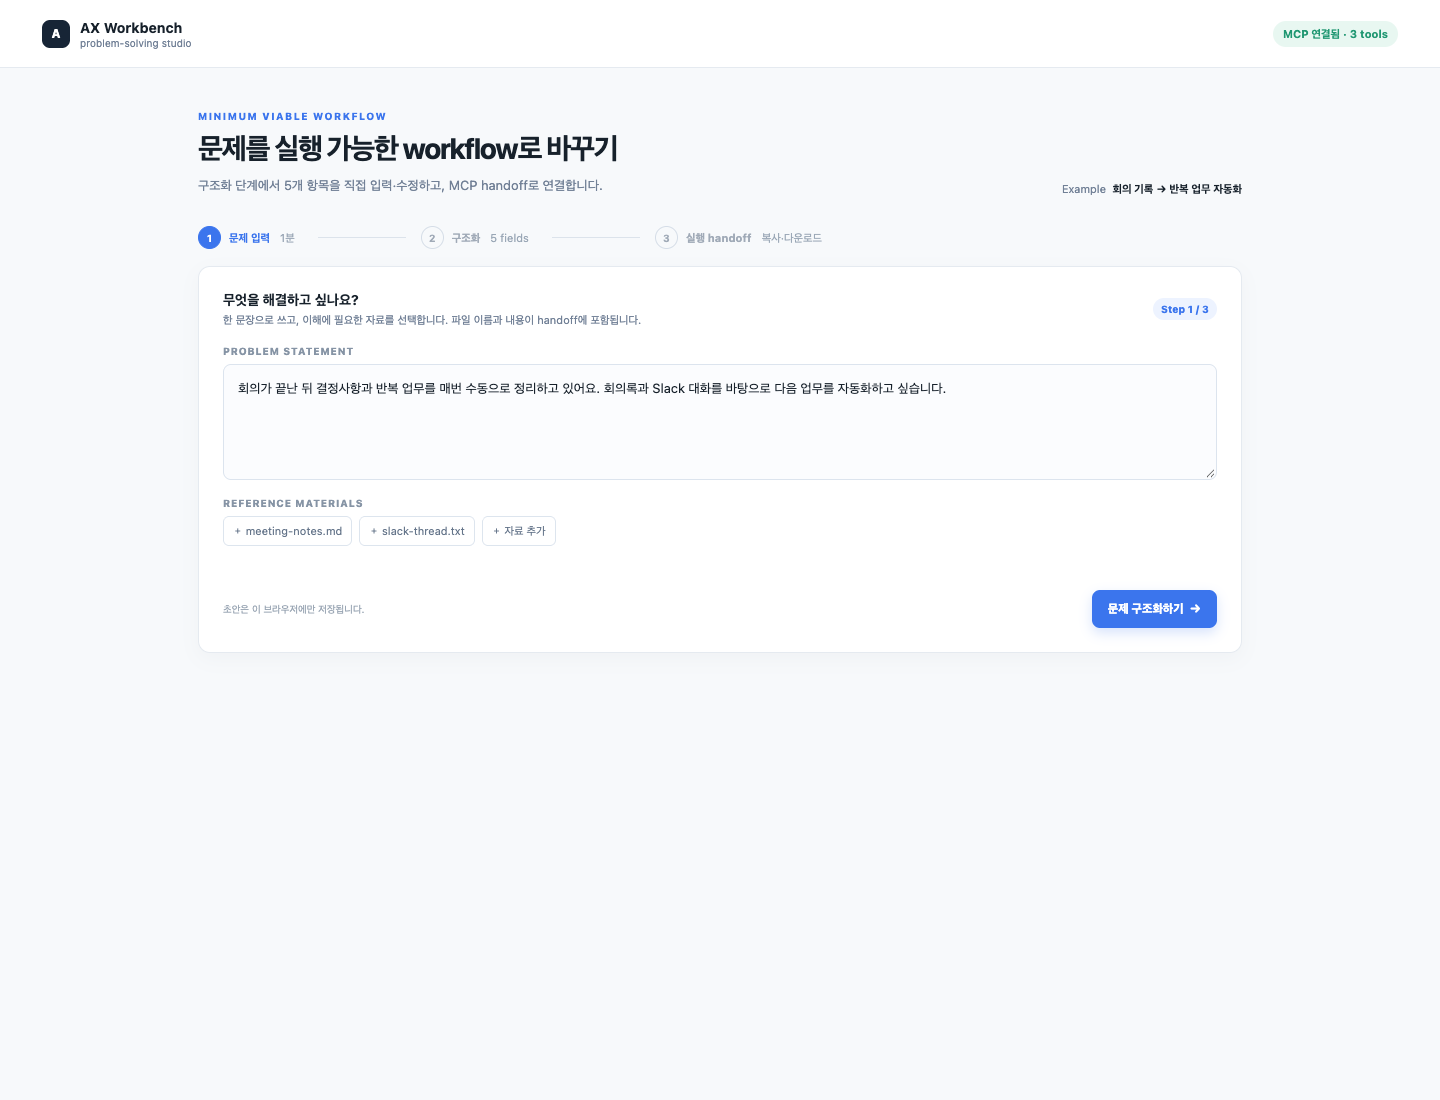
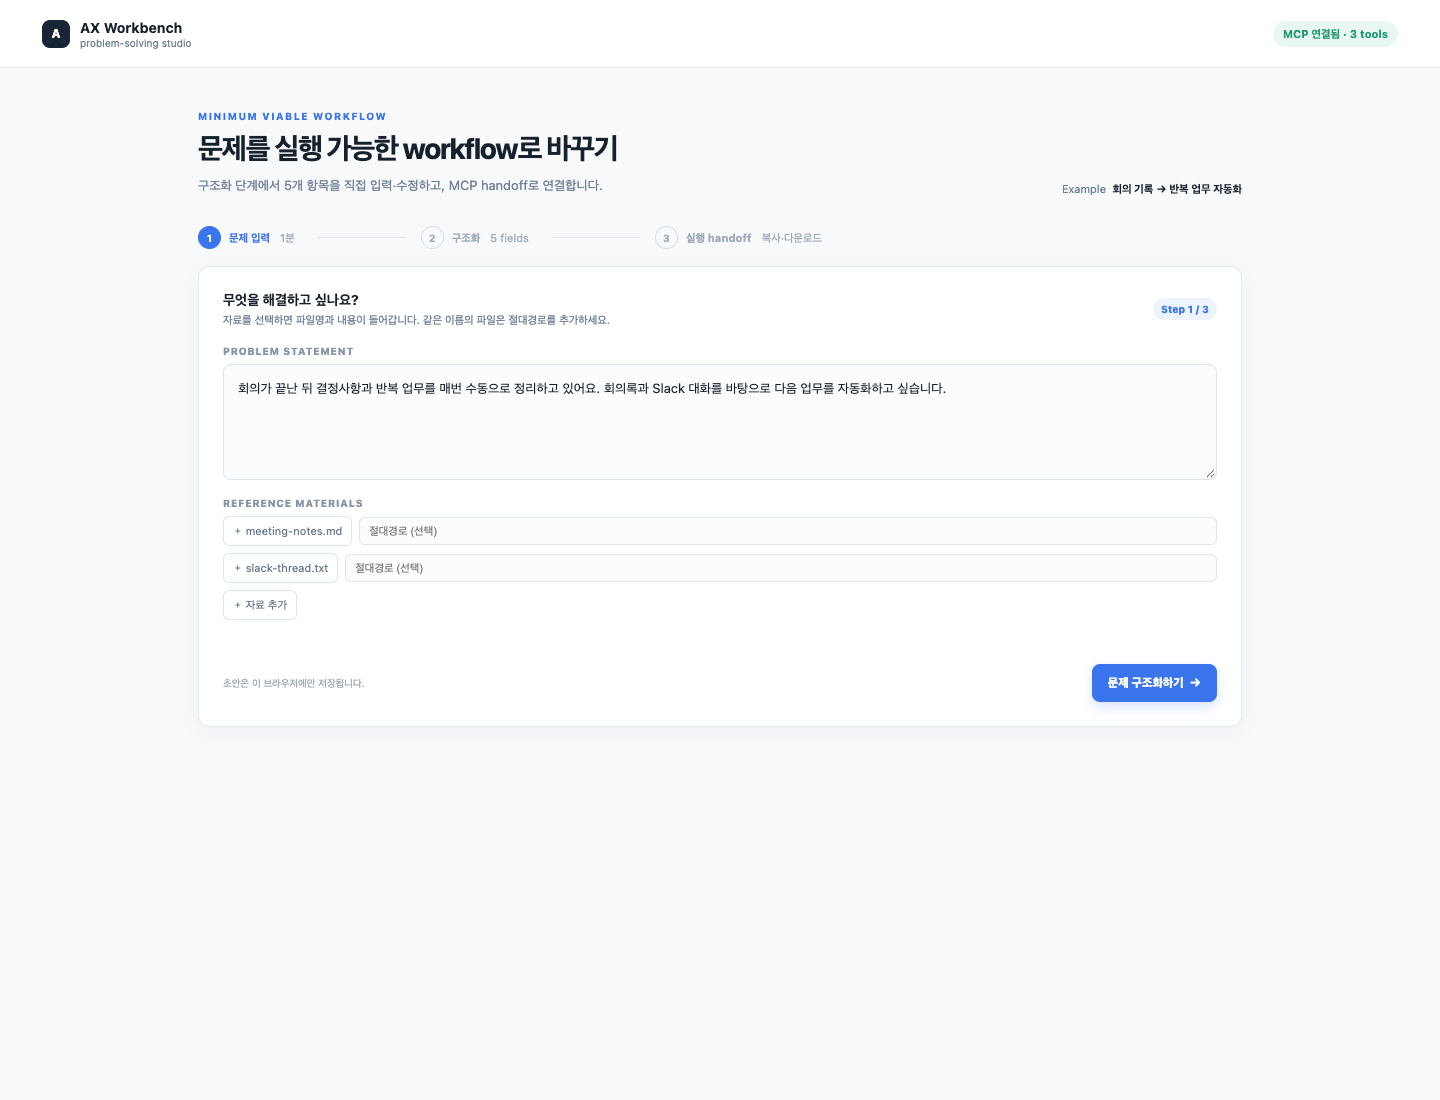
feat: preserve optional reference paths

diff --git a/apps/workbench/demo/mvp.html b/apps/workbench/demo/mvp.html
@@ -54,6 +54,9 @@
     .chips { display: flex; gap: 7px; flex-wrap: wrap; align-items: center; }
     .chip { border: 1px solid #dde5ee; background: #fff; border-radius: 6px; padding: 7px 9px; color: #65758a; font-size: 11px; }
     .chip:hover { border-color: #aebed5; }
+    .reference-item { display: flex; align-items: center; gap: 7px; width: 100%; }
+    .reference-path { flex: 1; min-width: 240px; border: 1px solid #dde5ee; border-radius: 6px; background: #fbfcfe; color: var(--ink); padding: 7px 9px; font-size: 11px; outline: 0; }
+    .reference-path:focus { border-color: var(--blue); box-shadow: 0 0 0 3px rgba(59, 117, 237, .1); }
     .form-footer, .actions { display: flex; justify-content: space-between; align-items: center; gap: 14px; margin-top: 20px; }
     .hint { color: #9aa6b4; font-size: 10px; }
     .error { color: var(--red); font-size: 11px; min-height: 16px; margin-top: 8px; }
@@ -135,11 +138,11 @@
 
     <section class="card input-view" id="inputView">
       <div class="input-card">
-        <div class="card-title"><div><h2>무엇을 해결하고 싶나요?</h2><p>한 문장으로 쓰고, 이해에 필요한 자료를 선택합니다. 파일 이름과 내용이 handoff에 포함됩니다.</p></div><span class="badge blue">Step 1 / 3</span></div>
+        <div class="card-title"><div><h2>무엇을 해결하고 싶나요?</h2><p>자료를 선택하면 파일명과 내용이 들어갑니다. 같은 이름의 파일은 절대경로를 추가하세요.</p></div><span class="badge blue">Step 1 / 3</span></div>
         <label class="label" for="request">Problem statement</label>
         <textarea class="textarea" id="request">회의가 끝난 뒤 결정사항과 반복 업무를 매번 수동으로 정리하고 있어요. 회의록과 Slack 대화를 바탕으로 다음 업무를 자동화하고 싶습니다.</textarea>
         <label class="label" for="fileInput">Reference materials</label>
-        <div class="chips" id="fileList"><button class="chip" type="button" data-remove="meeting-notes.md">＋ meeting-notes.md</button><button class="chip" type="button" data-remove="slack-thread.txt">＋ slack-thread.txt</button><button class="chip" type="button" id="addFile">＋ 자료 추가</button></div>
+        <div class="chips" id="fileList"><button class="chip" type="button" id="addFile">＋ 자료 추가</button></div>
         <input id="fileInput" type="file" multiple hidden>
         <div class="error" id="inputError" role="alert"></div>
         <div class="form-footer"><span class="hint" id="saveHint">초안은 이 브라우저에만 저장됩니다.</span><button class="primary" type="button" id="analyze">문제 구조화하기&nbsp; →</button></div>
@@ -178,7 +181,15 @@
   <script>
     const STORAGE_KEY = "ax-workbench-local-mvp-v2";
     const fieldKeys = ["goal", "constraints", "success_criteria", "anti_goals", "acceptance_rubric"];
-    const state = { request: "", refs: [], contract: {}, approved: false };
+    const state = {
+      request: "",
+      refs: [
+        { name: "meeting-notes.md", content: "" },
+        { name: "slack-thread.txt", content: "" }
+      ],
+      contract: {},
+      approved: false
+    };
     let mcpConnected = false;
     let mcpRequestId = 0;
     let referenceRead = Promise.resolve();
@@ -241,7 +252,11 @@
     function normalizeReference(ref) {
       if (typeof ref === "string") return { name: ref, content: "" };
       if (!ref || typeof ref !== "object") return { name: String(ref ?? "reference"), content: "" };
-      return { name: String(ref.name || "reference"), content: typeof ref.content === "string" ? ref.content : String(ref.content ?? "") };
+      return {
+        name: String(ref.name || "reference"),
+        path: typeof ref.path === "string" ? ref.path : String(ref.path ?? ""),
+        content: typeof ref.content === "string" ? ref.content : String(ref.content ?? "")
+      };
     }
 
     function referenceName(ref) { return normalizeReference(ref).name; }
@@ -255,9 +270,10 @@
       if (!refs.length) return ["- problem statement"];
       return refs.flatMap((ref) => {
         const reference = normalizeReference(ref);
-        if (!reference.content) return [`- ${reference.name}`];
+        const pathLine = reference.path ? [`  Path: ${reference.path}`] : [];
+        if (!reference.content) return [`- ${reference.name}`, ...pathLine];
         const fence = referenceContentFence(reference.content);
-        return [`- ${reference.name}`, "  Content:", `  ${fence}text`, reference.content, `  ${fence}`];
+        return [`- ${reference.name}`, ...pathLine, "  Content:", `  ${fence}text`, reference.content, `  ${fence}`];
       });
     }
 
@@ -274,14 +290,20 @@
     }
 
     function collectRefs() {
-      return $$('[data-remove]').map((item) => state.refs.find((ref) => referenceName(ref) === item.dataset.remove) || { name: item.dataset.remove, content: "" });
+      const rows = $$(".reference-item");
+      if (rows.length) return rows.map((row) => state.refs[Number(row.dataset.refIndex)] || { name: row.querySelector("[data-remove]").dataset.remove, content: "" });
+      return $$('[data-remove]').map((item) => ({ name: item.dataset.remove, content: "" }));
     }
 
     function renderRefList() {
       const list = $("#fileList"); list.replaceChildren();
-      state.refs.forEach((ref) => {
-        const name = referenceName(ref);
-        const button = document.createElement("button"); button.className = "chip"; button.type = "button"; button.dataset.remove = name; button.textContent = `＋ ${name}`; list.appendChild(button);
+      state.refs.forEach((ref, index) => {
+        const reference = normalizeReference(ref);
+        const row = document.createElement("div"); row.className = "reference-item"; row.dataset.refIndex = index;
+        const button = document.createElement("button"); button.className = "chip"; button.type = "button"; button.dataset.remove = reference.name; button.dataset.refIndex = index; button.textContent = `＋ ${reference.name}`;
+        const path = document.createElement("input"); path.className = "reference-path"; path.type = "text"; path.placeholder = "절대경로 (선택)"; path.value = reference.path; path.setAttribute("aria-label", `${reference.name} 절대경로`);
+        path.addEventListener("input", (event) => { state.refs[index] = { ...normalizeReference(state.refs[index]), path: event.target.value }; saveDraft(); });
+        row.append(button, path); list.appendChild(row);
       });
       const add = document.createElement("button"); add.className = "chip"; add.type = "button"; add.id = "addFile"; add.textContent = "＋ 자료 추가"; add.addEventListener("click", () => $("#fileInput").click()); list.appendChild(add);
     }
@@ -402,15 +424,22 @@
         notify("파일 이름과 내용을 로컬 참고자료로 추가했습니다.");
       }).catch(() => notify("파일 내용을 읽지 못했습니다."));
     });
-    $("#fileList").addEventListener("click", (event) => { const button = event.target.closest("[data-remove]"); if (!button) return; button.remove(); state.refs = collectRefs(); saveDraft(); });
+    $("#fileList").addEventListener("click", (event) => {
+      const button = event.target.closest("[data-remove]");
+      if (!button) return;
+      const index = Number(button.dataset.refIndex);
+      if (!Number.isInteger(index)) return;
+      state.refs.splice(index, 1); renderRefList(); saveDraft();
+    });
 
     try {
       const saved = JSON.parse(localStorage.getItem(STORAGE_KEY) || "null");
       if (saved && typeof saved.request === "string" && Array.isArray(saved.refs) && saved.contract && typeof saved.contract === "object") {
-        state.request = saved.request; state.refs = saved.refs.map(normalizeReference); state.contract = saved.contract; state.approved = saved.approved === true; $("#request").value = state.request; renderRefList(); $("#saveHint").textContent = "저장된 로컬 초안을 불러왔습니다."; openResult();
+        state.request = saved.request; state.refs = saved.refs.map(normalizeReference); state.contract = saved.contract; state.approved = saved.approved === true; $("#request").value = state.request; $("#saveHint").textContent = "저장된 로컬 초안을 불러왔습니다."; openResult();
       }
     } catch { localStorage.removeItem(STORAGE_KEY); }
 
+    renderRefList();
     connectMcp();
   </script>
 </body>

diff --git a/tests/e2e/test_workbench.py b/tests/e2e/test_workbench.py
@@ -77,6 +77,7 @@ def test_user_can_edit_contract_and_prepare_handoff(workbench_server, chromium_e
             "mimeType": "text/plain",
             "buffer": b"Decision: review the draft by Friday.",
         })
+        page.get_by_role("textbox", name="decisions.txt 절대경로").fill("/tmp/decisions.txt")
         page.get_by_role("button", name="문제 구조화하기").click()
         expect(page.get_by_text("구조화 단계 · 직접 입력")).to_be_visible()
         expect(page.locator("#contractBadge")).to_have_text("직접 입력")
@@ -90,6 +91,7 @@ def test_user_can_edit_contract_and_prepare_handoff(workbench_server, chromium_e
         expect(page.locator("#handoffText")).to_contain_text("## Request")
         expect(page.locator("#handoffText")).to_contain_text("회의가 끝난 뒤 결정사항과 반복 업무")
         expect(page.locator("#handoffText")).to_contain_text("meeting-notes.md")
+        expect(page.locator("#handoffText")).to_contain_text("Path: /tmp/decisions.txt")
         expect(page.locator("#handoffText")).to_contain_text("Decision: review the draft by Friday.")
         expect(page.locator("#handoffText")).not_to_contain_text("/work on meeting-summary")
 

diff --git a/README.md b/README.md
@@ -9,10 +9,10 @@
 `ax-workflow` Skill을 실행하면 로컬 MVP와 HTTP MCP를 먼저 확인·실행하고,
 브라우저를 `127.0.0.1:8787`로 엽니다.
 
-- 문제 문장과 참고자료 파일을 첫 단계에서 선택합니다. 선택한 파일의 이름과 내용이 handoff에 포함됩니다.
+- 문제 문장과 참고자료 파일을 첫 단계에서 선택합니다. 선택한 파일의 이름과 내용이 handoff에 포함되며, 같은 이름의 파일은 절대경로를 추가할 수 있습니다.
 - 구조화 단계에서 `Goal`, `Constraints`, `Success criteria`, `Anti-goals`,
   `Acceptance rubric`을 직접 수정합니다.
-- 첫 단계의 원문과 참고자료(파일명·내용)는 구조화 화면과 handoff 문서의 `Request`,
+- 첫 단계의 원문과 참고자료(파일명·절대경로·내용)는 구조화 화면과 handoff 문서의 `Request`,
   `References`에 그대로 이어집니다.
 - handoff는 Markdown·JSON으로 복사하거나 다운로드할 수 있습니다.
 - 로컬 저장만 사용하며 로그인, 자동 메일, 업무 확정, 외부 업로드는 없습니다.
